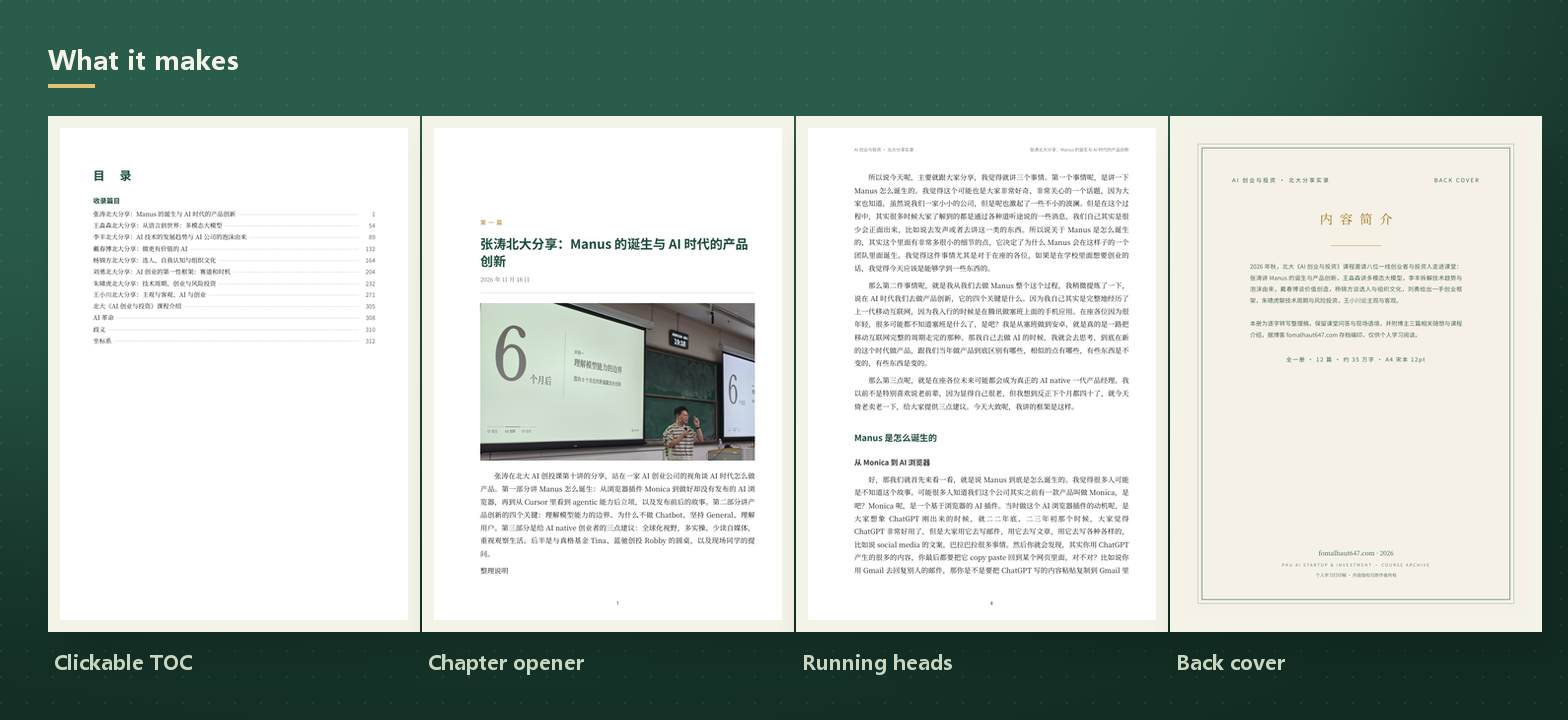
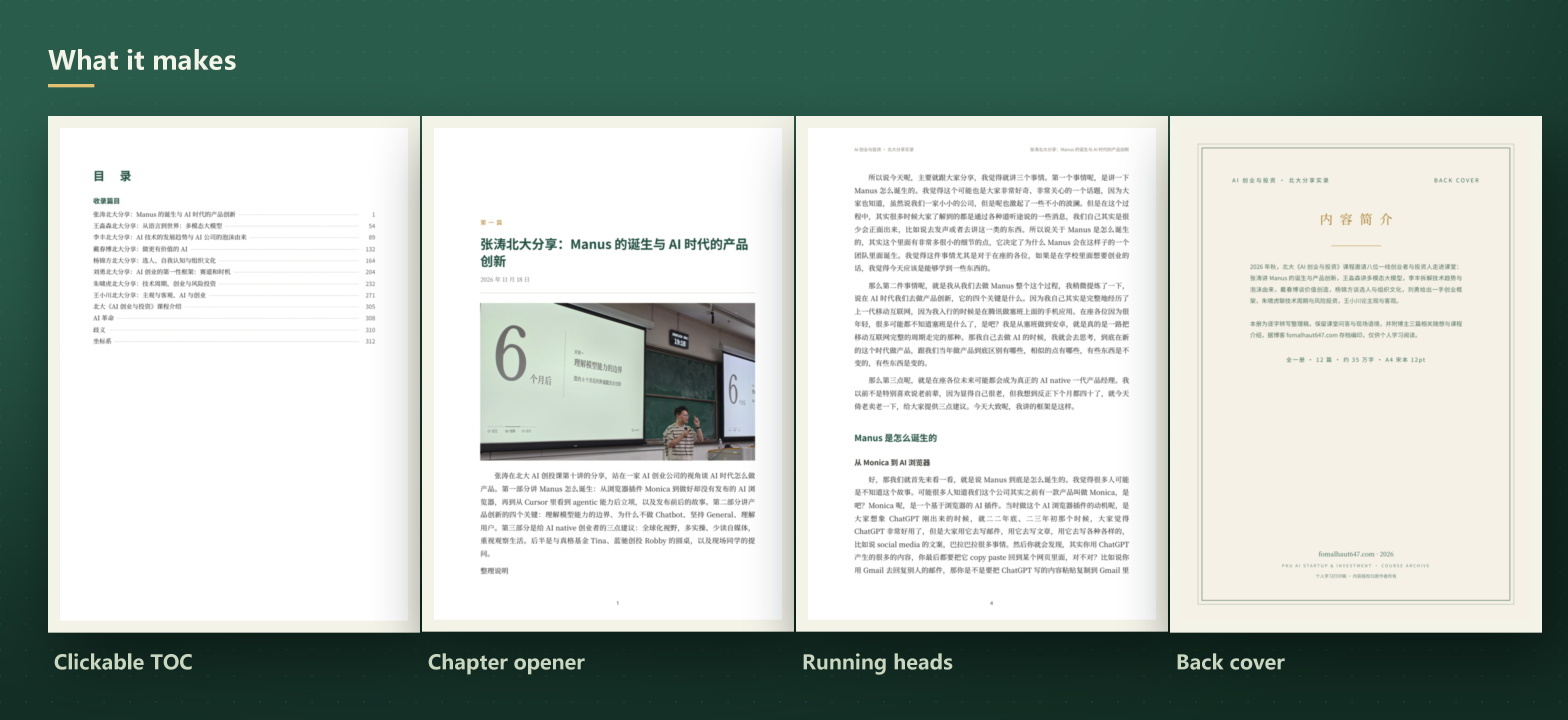
assets v3: eliminate black edges and aliasing for real
Root cause of the black borders: page cards were rotated in RGB mode
(black fill corners) and converted to RGBA afterwards, so transparency
never applied; the drop shadow was also effectively not rendering.

- build cards as RGBA, rotate with transparent fill
- 3x supersampling + integer area-average downsample (no ringing halos), no unsharp
- shadow derived from card alpha, composited via alpha_composite only
- source pages re-rendered at 220 dpi
- finish() now fails the build if any near-black pixel appears outside a card
- pages shifted left so shadows are not clipped by the canvas edge

diff --git a/assets/make_images.py b/assets/make_images.py
@@ -1,10 +1,20 @@
 # -*- coding: utf-8 -*-
-"""Paperwright README 图像合成 v2：深绿编辑风 hero ＋ 四联真页 ＋ 暗色产线图"""
+"""Paperwright README 图像合成 v3：深绿编辑风 hero ＋ 四联真页 ＋ 暗色产线图
+
+渲染纪律（都是踩过的坑）：
+- 全程 3x 超采样，最后按整数倍面积平均降采样——旋转边没有锯齿，也不产生振铃暗边
+- 页面卡片先建 RGBA 再旋转，fillcolor 用透明——RGB 模式下 rotate 的补角默认是黑的
+- 投影由卡片透明通道派生，合成只用 alpha_composite——paste 带 RGBA 蒙版的语义不可靠
+- 不做锐化：亮边旁的过冲会看起来像一圈黑线
+- finish() 自动验收：卡片以外出现近黑像素即报错——书页照片里的黑是内容，不算
+"""
 from PIL import Image, ImageDraw, ImageFont, ImageFilter
 import os
+import sys
 
 SRC = r'D:\Projects\fomalhaut647-print\output'
 OUT = os.path.dirname(os.path.abspath(__file__))
+S = 3  # supersample factor（须为整数，降采样按整数倍面积平均）
 
 INK_BG1 = (42, 92, 75)
 INK_BG2 = (18, 44, 35)
@@ -12,97 +22,140 @@ CREAM = (244, 243, 232)
 CREAM_DIM = (201, 214, 192)
 AMBER = (227, 194, 115)
 DOT = (164, 198, 172)
+SHADOW = (4, 12, 9)
+
 
 def f(size, bold=False):
     p = r'C:\Windows\Fonts\msyhbd.ttc' if bold else r'C:\Windows\Fonts\msyh.ttc'
-    return ImageFont.truetype(p, size)
+    return ImageFont.truetype(p, size * S)
 
-def dark_bg(w, h):
-    base = Image.new('RGB', (w, h), INK_BG2)
-    glow = Image.new('L', (w, h), 0)
-    gd = ImageDraw.Draw(glow)
-    gd.ellipse([-w * 0.3, -h * 0.55, w * 0.95, h * 0.7], fill=255)
-    glow = glow.filter(ImageFilter.GaussianBlur(min(w, h) // 5))
-    light = Image.new('RGB', (w, h), INK_BG1)
-    return Image.composite(light, base, glow)
 
-def dot_grid(im, alpha=26, step=26):
-    ov = Image.new('RGBA', im.size, (0, 0, 0, 0))
-    d = ImageDraw.Draw(ov)
-    for y in range(0, im.height, step):
-        for x in range(0, im.width, step):
-            d.ellipse([x, y, x + 1.4, y + 1.4], fill=DOT + (alpha,))
-    im.paste(Image.alpha_composite(im.convert('RGBA'), ov).convert('RGB'), (0, 0))
-    return im
+class Canvas:
+    """RGBA 画布＋fp（页面卡片 footprint：卡片内 255，外 0）"""
+
+    def __init__(self, w, h):
+        w, h = w * S, h * S
+        base = Image.new('RGB', (w, h), INK_BG2)
+        glow = Image.new('L', (w, h), 0)
+        ImageDraw.Draw(glow).ellipse([-w * 0.3, -h * 0.55, w * 0.95, h * 0.7], fill=255)
+        glow = glow.filter(ImageFilter.GaussianBlur(min(w, h) // 5))
+        light = Image.new('RGB', (w, h), INK_BG1)
+        self.img = Image.composite(light, base, glow).convert('RGBA')
+        self.fp = Image.new('L', (w, h), 0)
+        self.d = ImageDraw.Draw(self.img)
+        # 点阵纹理
+        ov = Image.new('RGBA', (w, h), (0, 0, 0, 0))
+        od = ImageDraw.Draw(ov)
+        r = 0.8 * S
+        for y in range(0, h, 26 * S):
+            for x in range(0, w, 26 * S):
+                od.ellipse([x - r, y - r, x + r, y + r], fill=DOT + (26,))
+        self.img.alpha_composite(ov)
+        self.d = ImageDraw.Draw(self.img)
+
 
 def load(name):
     return Image.open(os.path.join(SRC, f'hd-{name}.png')).convert('RGB')
 
-def fit_h(im, h):
-    w = int(im.width * h / im.height)
-    return im.resize((w, h), Image.LANCZOS)
 
-def paste_page(base, im, x, y, rot=0):
-    """乳白装裱＋微旋转＋真投影（悬浮感）：RGBA 旋转透明补角，投影由卡片 alpha 生成"""
-    pad = 12
-    card = Image.new('RGB', (im.width + pad * 2, im.height + pad * 2), CREAM)
+def fit(im, h=None, w=None):
+    """按 1x 尺寸缩放到 S 倍画布；坐标以 1x 计，内部乘 S"""
+    if h:
+        im = im.resize((int(im.width * h * S / im.height), h * S), Image.LANCZOS)
+    if w and im.width > w * S:
+        im = im.resize((w * S, int(im.height * w * S / im.width)), Image.LANCZOS)
+    return im.filter(ImageFilter.GaussianBlur(0.4 * S))  # 压缩细笔画文字的摩尔纹
+
+
+def paste_page(cv, im, x, y, rot=0):
+    """乳白装裱＋微旋转＋柔影。x/y 以 1x 计。"""
+    base = cv.img
+    x, y = x * S, y * S
+    pad = 12 * S
+    card = Image.new('RGBA', (im.width + pad * 2, im.height + pad * 2), CREAM + (255,))
     card.paste(im, (pad, pad))
     if rot:
-        card = card.rotate(rot, expand=True, resample=Image.BICUBIC)
-    card = card.convert('RGBA')
-    # 投影层：卡片 alpha → 墨绿黑 → 右下偏移 → 高斯羽化
-    alpha = card.split()[3].point(lambda v: int(v * 0.55))
-    shadow_card = Image.new('RGBA', card.size, (6, 18, 14, 255))
-    shadow_card.putalpha(alpha)
-    sh = Image.new('RGBA', base.size, (0, 0, 0, 0))
-    sh.paste(shadow_card, (x + 18, y + 28), shadow_card)
-    sh = sh.filter(ImageFilter.GaussianBlur(16))
-    base.paste(Image.new('RGB', base.size, (10, 28, 22)), (0, 0), sh)
-    # 卡片本体
-    base.paste(card, (x, y), card)
-    return card.width, card.height
+        card = card.rotate(rot, expand=True, resample=Image.BICUBIC, fillcolor=CREAM + (0,))
+    alpha = card.split()[3]
+    # 投影：卡片透明通道 → 偏移 → 羽化 → 压暗
+    sh = Image.new('L', base.size, 0)
+    sh.paste(alpha, (x + 12 * S, y + 28 * S))
+    sh = sh.filter(ImageFilter.GaussianBlur(28 * S)).point(lambda v: int(v * 0.6))
+    shadow = Image.new('RGBA', base.size, SHADOW + (255,))
+    shadow.putalpha(sh)
+    base.alpha_composite(shadow)
+    # 卡片本体（越界部分裁掉再合成）
+    x0, y0 = max(0, x), max(0, y)
+    cx0, cy0 = x0 - x, y0 - y
+    cw = min(card.width - cx0, base.width - x0)
+    ch = min(card.height - cy0, base.height - y0)
+    box = (cx0, cy0, cx0 + cw, cy0 + ch)
+    base.alpha_composite(card.crop(box), (x0, y0))
+    cv.fp.paste(alpha.crop(box), (x0, y0), alpha.crop(box))
+
+
+def finish(cv, name):
+    out = cv.img.convert('RGB').resize((cv.img.width // S, cv.img.height // S), Image.BOX)
+    fp = cv.fp.resize(out.size, Image.BOX)
+    # 验收：卡片以外（含边缘过渡带与投影区）不得有近黑像素
+    leaks = [(i % out.width, i // out.width)
+             for i, ((r, g, b), a) in enumerate(zip(out.getdata(), fp.getdata()))
+             if a < 250 and max(r, g, b) < 16]
+    inside_black = sum(1 for (r, g, b), a in zip(out.getdata(), fp.getdata()) if a >= 250 and max(r, g, b) < 16)
+    out.save(os.path.join(OUT, name), optimize=True)
+    print(f'{name} {out.size} · 卡片外近黑像素 {len(leaks)} · 卡片内（书页内容）近黑像素 {inside_black}')
+    if leaks:
+        print('   LEAK at', leaks[:12])
+        return False
+    return True
+
+
+ok = True
 
 # ================= hero.png 1568×688 =================
 W, H = 1568, 688
-hero = dark_bg(W, H)
-hero = dot_grid(hero)
-d = ImageDraw.Draw(hero)
-d.text((W - 640, H - 210), 'PAPERWRIGHT', font=f(64, True), fill=INK_BG2, stroke_width=1, stroke_fill=(96, 130, 108))
-paste_page(hero, fit_h(load('cover'), 440), 612, 110, rot=-2)
-paste_page(hero, fit_h(load('opener'), 440), 948, 80, rot=1.5)
-paste_page(hero, fit_h(load('running'), 372), 1248, 148, rot=-1)
-d.text((84, 96), 'Paperwright 页匠', font=f(58, True), fill=CREAM)
-d.rectangle([88, 196, 88 + 64, 200], fill=AMBER)
-d.text((84, 222), 'From a web archive,', font=f(26), fill=CREAM_DIM)
-d.text((84, 264), 'to a book you can hold.', font=f(26, True), fill=CREAM)
-d.text((84, 356), '4 books', font=f(30, True), fill=AMBER)
-d.text((84, 404), '2,801+ pages produced', font=f(17), fill=CREAM_DIM)
-d.text((84, 434), '477-article archive bound in 6 volumes', font=f(17), fill=CREAM_DIM)
-d.text((84, H - 96), '0 RECON → 1 CRAWL → 2 CLEAN → 3 BIND → 4 RENDER → 5 PAGE-MAP → 6 MERGE → 7 QA', font=f(15, True), fill=(154, 178, 148))
-d.text((84, H - 60), 'real output · 354-page PKU course transcripts', font=f(15), fill=(140, 160, 138))
-hero.save(os.path.join(OUT, 'hero.png'))
-print('hero.png', hero.size)
+cv = Canvas(W, H)
+d = cv.d
+# 幽灵描边字
+d.text(((W - 640) * S, (H - 210) * S), 'PAPERWRIGHT', font=f(64, True),
+       fill=INK_BG2 + (255,), stroke_width=S, stroke_fill=(96, 130, 108, 255))
+# 三页错落
+paste_page(cv, fit(load('cover'), 440), 568, 110, rot=-2)
+paste_page(cv, fit(load('opener'), 440), 904, 80, rot=1.5)
+paste_page(cv, fit(load('running'), 372), 1196, 148, rot=-1)
+# 品牌块
+d = ImageDraw.Draw(cv.img)
+d.text((84 * S, 96 * S), 'Paperwright 页匠', font=f(58, True), fill=CREAM + (255,))
+d.rectangle([88 * S, 196 * S, 152 * S, 200 * S], fill=AMBER + (255,))
+d.text((84 * S, 222 * S), 'From a web archive,', font=f(26), fill=CREAM_DIM + (255,))
+d.text((84 * S, 264 * S), 'to a book you can hold.', font=f(26, True), fill=CREAM + (255,))
+d.text((84 * S, 356 * S), '4 books', font=f(30, True), fill=AMBER + (255,))
+d.text((84 * S, 404 * S), '2,801+ pages produced', font=f(17), fill=CREAM_DIM + (255,))
+d.text((84 * S, 434 * S), '477-article archive bound in 6 volumes', font=f(17), fill=CREAM_DIM + (255,))
+d.text((84 * S, (H - 96) * S),
+       '0 RECON → 1 CRAWL → 2 CLEAN → 3 BIND → 4 RENDER → 5 PAGE-MAP → 6 MERGE → 7 QA',
+       font=f(15, True), fill=(154, 178, 148, 255))
+d.text((84 * S, (H - 60) * S), 'real output · 354-page PKU course transcripts',
+       font=f(15), fill=(140, 160, 138, 255))
+ok &= finish(cv, 'hero.png')
 
 # ================= pages.png 1568×720 =================
 W2, H2 = 1568, 720
-pg = dark_bg(W2, H2)
-pg = dot_grid(pg)
-d2 = ImageDraw.Draw(pg)
-d2.text((48, 42), 'What it makes', font=f(26, True), fill=CREAM)
-d2.rectangle([48, 84, 94, 87], fill=AMBER)
-panels = [('toc', 'Clickable TOC'), ('opener', 'Chapter opener'), ('running', 'Running heads'), ('back', 'Back cover')]
+cv = Canvas(W2, H2)
+d2 = cv.d
+d2.text((48 * S, 42 * S), 'What it makes', font=f(26, True), fill=CREAM + (255,))
+d2.rectangle([48 * S, 84 * S, 94 * S, 87 * S], fill=AMBER + (255,))
+panels = [('toc', 'Clickable TOC'), ('opener', 'Chapter opener'),
+          ('running', 'Running heads'), ('back', 'Back cover')]
 pw2 = 348
 gap2 = (W2 - 96 - pw2 * 4) // 3
 x = 48
 for name, cap in panels:
-    im = fit_h(load(name), 500)
-    if im.width > pw2:
-        im = im.resize((pw2, int(im.height * pw2 / im.width)), Image.LANCZOS)
-    paste_page(pg, im, x + (pw2 - im.width) // 2, 116)
-    d2.text((x + 6, 648), cap, font=f(20, True), fill=CREAM_DIM)
+    im = fit(load(name), 500, pw2)
+    paste_page(cv, im, x + (pw2 - im.width // S) // 2, 116)
+    d2.text(((x + 6) * S, 648 * S), cap, font=f(20, True), fill=CREAM_DIM + (255,))
     x += pw2 + gap2
-pg.save(os.path.join(OUT, 'pages.png'))
-print('pages.png', pg.size)
+ok &= finish(cv, 'pages.png')
 
 # ================= pipeline.svg =================
 phases = [
@@ -122,9 +175,9 @@ ph = ['<svg xmlns="http://www.w3.org/2000/svg" width="1568" height="300" viewBox
       '<rect width="1568" height="300" fill="url(#g)"/>',
       '<text x="40" y="52" font-size="26" font-weight="700" fill="#f4f3e8">The pipeline</text>',
       '<rect x="40" y="64" width="46" height="3" fill="#e3c273"/>']
-bw, bh, gap2, x2, y2 = 168, 118, 16, 40, 104
+bw, bh, gap3, x2, y2 = 168, 118, 16, 40, 104
 for i, (num, name2, desc) in enumerate(phases):
-    px = x2 + i * (bw + gap2)
+    px = x2 + i * (bw + gap3)
     ph.append(f'<rect x="{px}" y="{y2}" width="{bw}" height="{bh}" rx="10" fill="#f4f3e814" stroke="#f4f3e83d" stroke-width="1"/>')
     ph.append(f'<circle cx="{px + 26}" cy="{y2 + 28}" r="15" fill="none" stroke="#e3c273" stroke-width="1.2"/>')
     ph.append(f'<text x="{px + 26}" y="{y2 + 33}" font-size="15" fill="#e3c273" text-anchor="middle" font-weight="700">{num}</text>')
@@ -139,3 +192,5 @@ for i, (num, name2, desc) in enumerate(phases):
 ph.append('</svg>')
 open(os.path.join(OUT, 'pipeline.svg'), 'w', encoding='utf-8').write('\n'.join(ph))
 print('pipeline.svg', len(ph), 'elements')
+
+sys.exit(0 if ok else 1)
